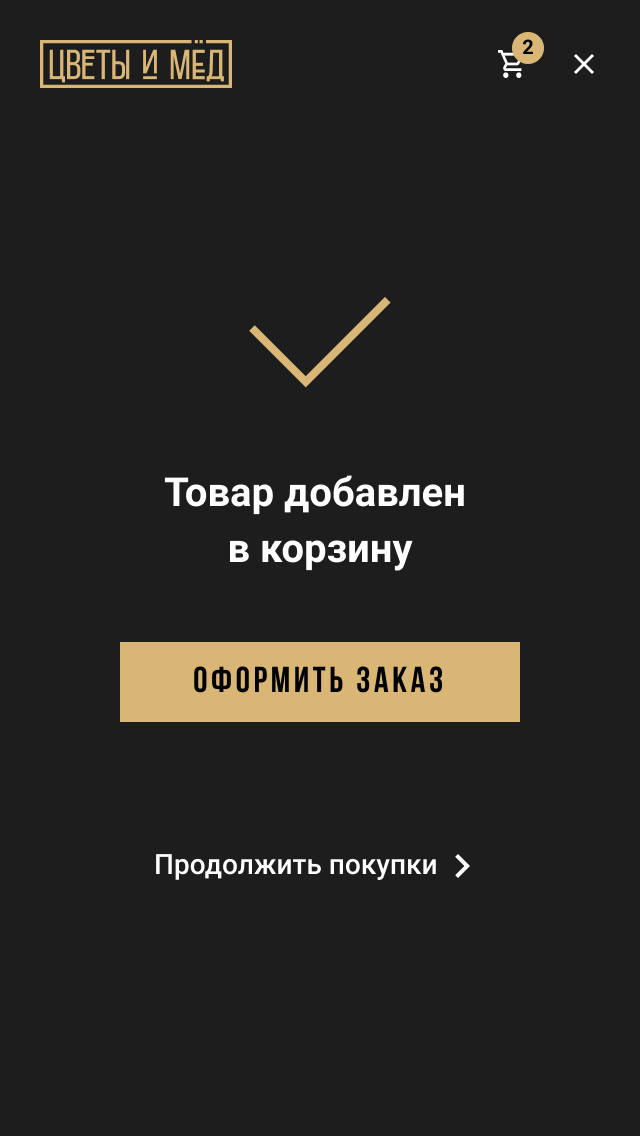
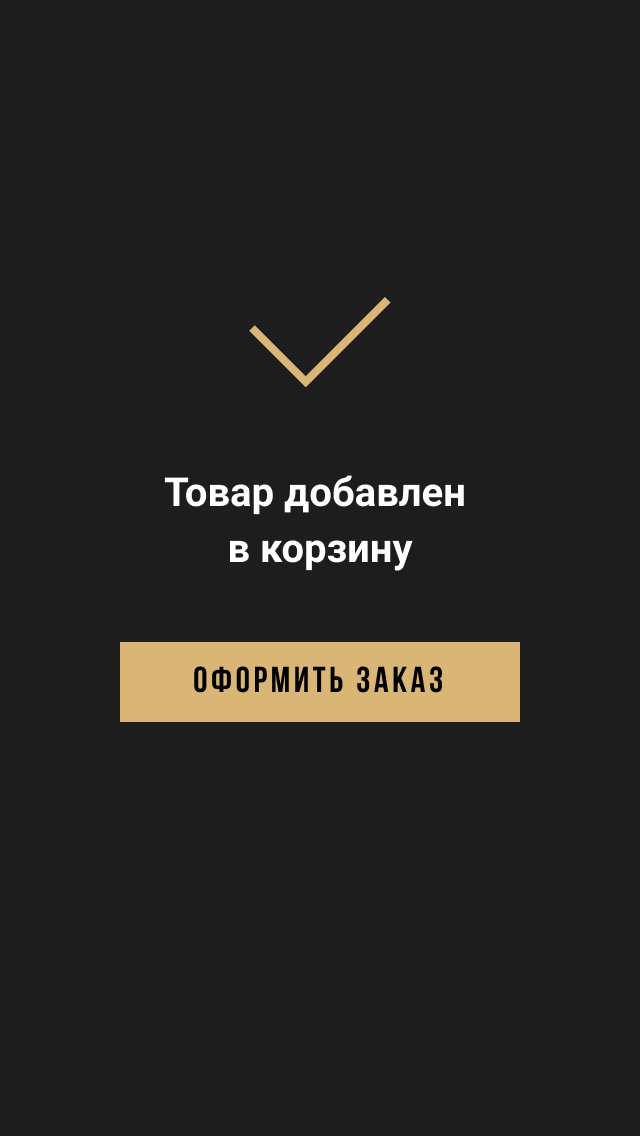
Add files via upload

diff --git a/index.html b/index.html
@@ -28,9 +28,7 @@
     <li><a href="2.html" target="_blank">Меню</a></li>
     <li><a href="3.html" target="_blank">Каталог 2x</a></li>
     <li><a href="4.html" target="_blank">Каталог 1х</a></li>
-    <li><a href="5.html" target="_blank">Превью карточки товара фиксируется блок цены и кнопка купить – белый вариант</a></li>
-    <li><a href="6.html" target="_blank">Превью карточки товара фиксируется блок цены и кнопка купить – черный вариант</a></li>
-    <li><a href="7.html" target="_blank">Карточка товара полное описание</a></li>
+    <li><a href="5.html" target="_blank">Карточка товара</a></li>
     <li><a href="8.html" target="_blank">Товар добавлен в корзину</a></li>
     <li><a href="9.html" target="_blank">Корзина с одним товаром</a></li>
     <li><a href="10.html" target="_blank">Корзина с несколькими товарами</a></li>

diff --git a/5.html b/5.html
@@ -4,7 +4,7 @@
   <meta charset="UTF-8">
   <meta name="viewport" content="width=device-width, initial-scale=1.0">
   <meta http-equiv="X-UA-Compatible" content="ie=edge">
-  <title>Document</title>
+  <title>Flowershoney</title>
 </head>
 <style>
   body{
@@ -12,8 +12,25 @@
     padding:0;
     background: #1c1d1c;
   }
+  img{
+    margin:0; 
+    padding:0; 
+    width:100%; 
+    height:auto; 
+    border: none;
+    display: block;
+  }
+  .top{
+    position: fixed;
+  }
+  .down{
+    position: fixed;
+    bottom:0px;
+  }
 </style>
 <body>
-  <img src="images/5 – 320 – Product card preview.– white.png" alt="" style="margin:0; padding:0; width:100%; height:auto; border:none;">
+  <img class="top" src="images/header.png" alt="">
+  <img class="down" src="images/footer-2.png" alt="">
+  <img src="images/6 – 320 – Product card.png" alt="" style="margin:0; padding:0; width:100%; height:auto; border:none;">
 </body>
 </html>

diff --git a/8.html b/8.html
@@ -4,7 +4,7 @@
   <meta charset="UTF-8">
   <meta name="viewport" content="width=device-width, initial-scale=1.0">
   <meta http-equiv="X-UA-Compatible" content="ie=edge">
-  <title>Document</title>
+  <title>Flowershoney</title>
 </head>
 <style>
   body{
@@ -12,8 +12,26 @@
     padding:0;
     background: #1c1d1c;
   }
+  img{
+    margin:0; 
+    padding:0; 
+    width:100%; 
+    height:auto; 
+    border: none;
+    display: block;
+  }
+  .top{
+    position: fixed;
+    top:0px;
+  }
+  .down{
+    position: fixed;
+    bottom:0px;
+  }
 </style>
 <body>
-  <img src="images/7 – 320 – Add to cart or buy now..png" alt="" style="margin:0; padding:0; width:100%; height:auto; border:none;">
+  <img class="top" src="images/header-2.png" alt="">
+  <img class="down" src="images/footer-3.png" alt="">
+  <img src="images/7 – 320 – Add to cart or buy now..png" alt="">
 </body>
 </html>

diff --git a/10.html b/10.html
@@ -4,7 +4,7 @@
   <meta charset="UTF-8">
   <meta name="viewport" content="width=device-width, initial-scale=1.0">
   <meta http-equiv="X-UA-Compatible" content="ie=edge">
-  <title>Document</title>
+  <title>Flowershoney</title>
 </head>
 <style>
   body{
@@ -12,8 +12,25 @@
     padding:0;
     background: #1c1d1c;
   }
+  img{
+    margin:0; 
+    padding:0; 
+    width:100%; 
+    height:auto; 
+    border: none;
+    display: block;
+  }
+  .top{
+    position: fixed;
+  }
+  .down{
+    position: fixed;
+    bottom:0px;
+  }
 </style>
 <body>
+  <img class="top" src="images/header-3.png" alt="">
+  <img class="down" src="images/footer-4.png" alt="">
   <img src="images/9 – 320 – Card with several products.png" alt="" style="margin:0; padding:0; width:100%; height:auto; border:none;">
 </body>
 </html>

diff --git a/13.html b/13.html
@@ -4,7 +4,7 @@
   <meta charset="UTF-8">
   <meta name="viewport" content="width=device-width, initial-scale=1.0">
   <meta http-equiv="X-UA-Compatible" content="ie=edge">
-  <title>Document</title>
+  <title>Flowershoney</title>
 </head>
 <style>
   body{
@@ -12,8 +12,25 @@
     padding:0;
     background: #1c1d1c;
   }
+  img{
+    margin:0; 
+    padding:0; 
+    width:100%; 
+    height:auto; 
+    border: none;
+    display: block;
+  }
+  .top{
+    position: fixed;
+  }
+  .down{
+    position: fixed;
+    bottom:0px;
+  }
 </style>
 <body>
+  <img class="top" src="images/header-4.png" alt="">
+  <img class="down" src="images/footer-3.png" alt="">
   <img src="images/13 – 320 – Order complite.1.1.png" alt="" style="margin:0; padding:0; width:100%; height:auto; border:none;">
 </body>
 </html>

diff --git a/2.html b/2.html
@@ -4,7 +4,7 @@
   <meta charset="UTF-8">
   <meta name="viewport" content="width=device-width, initial-scale=1.0">
   <meta http-equiv="X-UA-Compatible" content="ie=edge">
-  <title>Document</title>
+  <title>Flowershoney</title>
 </head>
 <style>
   body{
@@ -12,8 +12,25 @@
     padding:0;
     background: #1c1d1c;
   }
+  img{
+    margin:0; 
+    padding:0; 
+    width:100%; 
+    height:auto; 
+    border: none;
+    display: block;
+  }
+  .top{
+    position: fixed;
+  }
+  .down{
+    position: fixed;
+    bottom:0px;
+  }
 </style>
 <body>
+  <img class="top" src="images/header-1.png" alt="">
+  <img class="down" src="images/footer-1.png" alt="">
   <img src="images/2 – 320 – Main menu.1.png" alt="" style="margin:0; padding:0; width:100%; height:auto; border:none;">
 </body>
 </html>

diff --git a/9.html b/9.html
@@ -4,7 +4,7 @@
   <meta charset="UTF-8">
   <meta name="viewport" content="width=device-width, initial-scale=1.0">
   <meta http-equiv="X-UA-Compatible" content="ie=edge">
-  <title>Document</title>
+  <title>Flowershoney</title>
 </head>
 <style>
   body{
@@ -12,8 +12,24 @@
     padding:0;
     background: #1c1d1c;
   }
+  img{
+    margin:0; 
+    padding:0; 
+    width:100%; 
+    height:auto; 
+    border: none;
+    display: block;
+  }
+  .top{
+    position: fixed;
+  }
+  .down{
+    position: fixed;
+    bottom:0px;
+  }
 </style>
 <body>
+  <img class="top" src="images/header-3.png" alt="">
   <img src="images/8 – 320 – Card with single products.png" alt="" style="margin:0; padding:0; width:100%; height:auto; border:none;">
 </body>
 </html>

diff --git a/12.html b/12.html
@@ -4,7 +4,7 @@
   <meta charset="UTF-8">
   <meta name="viewport" content="width=device-width, initial-scale=1.0">
   <meta http-equiv="X-UA-Compatible" content="ie=edge">
-  <title>Document</title>
+  <title>Flowershoney</title>
 </head>
 <style>
   body{
@@ -12,8 +12,24 @@
     padding:0;
     background: #1c1d1c;
   }
+  img{
+    margin:0; 
+    padding:0; 
+    width:100%; 
+    height:auto; 
+    border: none;
+    display: block;
+  }
+  .top{
+    position: fixed;
+  }
+  .down{
+    position: fixed;
+    bottom:0px;
+  }
 </style>
 <body>
+  <img class="top" src="images/header-2.png" alt="">
   <img src="images/12 – 780 – Fast order.1.1.1.png" alt="" style="margin:0; padding:0; width:100%; height:auto; border:none;">
 </body>
 </html>

diff --git a/3.html b/3.html
@@ -4,7 +4,7 @@
   <meta charset="UTF-8">
   <meta name="viewport" content="width=device-width, initial-scale=1.0">
   <meta http-equiv="X-UA-Compatible" content="ie=edge">
-  <title>Document</title>
+  <title>Flowershoney</title>
 </head>
 <style>
   body{
@@ -12,8 +12,24 @@
     padding:0;
     background: #1c1d1c;
   }
+  img{
+    margin:0; 
+    padding:0; 
+    width:100%; 
+    height:auto; 
+    border: none;
+    display: block;
+  }
+  .top{
+    position: fixed;
+  }
+  .down{
+    position: fixed;
+    bottom:0px;
+  }
 </style>
 <body>
+  <img class="top" src="images/header.png" alt="">
   <img src="images/3 – 320 – Catalog 2x.png" alt="" style="margin:0; padding:0; width:100%; height:auto; border:none;">
 </body>
 </html>

diff --git a/4.html b/4.html
@@ -4,7 +4,7 @@
   <meta charset="UTF-8">
   <meta name="viewport" content="width=device-width, initial-scale=1.0">
   <meta http-equiv="X-UA-Compatible" content="ie=edge">
-  <title>Document</title>
+  <title>Flowershoney</title>
 </head>
 <style>
   body{
@@ -12,8 +12,24 @@
     padding:0;
     background: #1c1d1c;
   }
+  img{
+    margin:0; 
+    padding:0; 
+    width:100%; 
+    height:auto; 
+    border: none;
+    display: block;
+  }
+  .top{
+    position: fixed;
+  }
+  .down{
+    position: fixed;
+    bottom:0px;
+  }
 </style>
 <body>
+  <img class="top" src="images/header.png" alt="">
   <img src="images/4 – 320 – Catalog 1x.png" alt="" style="margin:0; padding:0; width:100%; height:auto; border:none;">
 </body>
 </html>

diff --git a/11.html b/11.html
@@ -4,7 +4,7 @@
   <meta charset="UTF-8">
   <meta name="viewport" content="width=device-width, initial-scale=1.0">
   <meta http-equiv="X-UA-Compatible" content="ie=edge">
-  <title>Document</title>
+  <title>Flowershoney</title>
 </head>
 <style>
   body{
@@ -12,8 +12,24 @@
     padding:0;
     background: #1c1d1c;
   }
+  img{
+    margin:0; 
+    padding:0; 
+    width:100%; 
+    height:auto; 
+    border: none;
+    display: block;
+  }
+  .top{
+    position: fixed;
+  }
+  .down{
+    position: fixed;
+    bottom:0px;
+  }
 </style>
 <body>
+  <img class="top" src="images/header-2.png" alt="">
   <img src="images/11 –320– Order.png" alt="" style="margin:0; padding:0; width:100%; height:auto; border:none;">
 </body>
 </html>

diff --git a/1.html b/1.html
@@ -4,7 +4,7 @@
   <meta charset="UTF-8">
   <meta name="viewport" content="width=device-width, initial-scale=1.0">
   <meta http-equiv="X-UA-Compatible" content="ie=edge">
-  <title>Document</title>
+  <title>Flowershoney</title>
 </head>
 <style>
   body{
@@ -12,8 +12,24 @@
     padding:0;
     background: #1c1d1c;
   }
+  img{
+    margin:0; 
+    padding:0; 
+    width:100%; 
+    height:auto; 
+    border: none;
+    display: block;
+  }
+  .top{
+    position: fixed;
+  }
+  .down{
+    position: fixed;
+    bottom:0px;
+  }
 </style>
 <body>
+  <img class="top" src="images/header.png" alt="">
   <img src="images/1 – 320 – index.png" alt="" style="margin:0; padding:0; width:100%; height:auto; border:none;">
 </body>
 </html>
